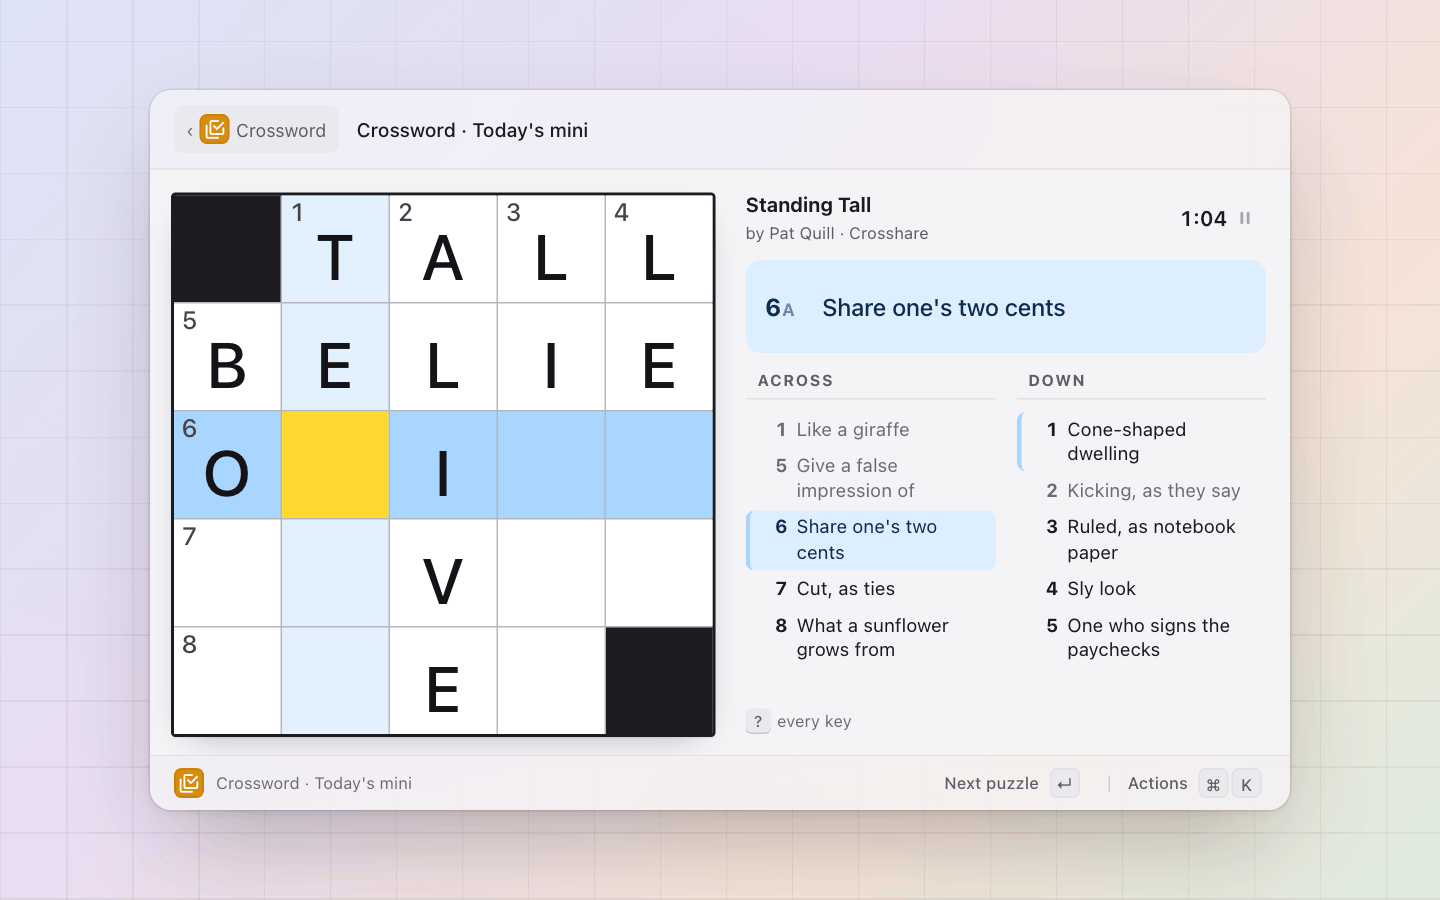
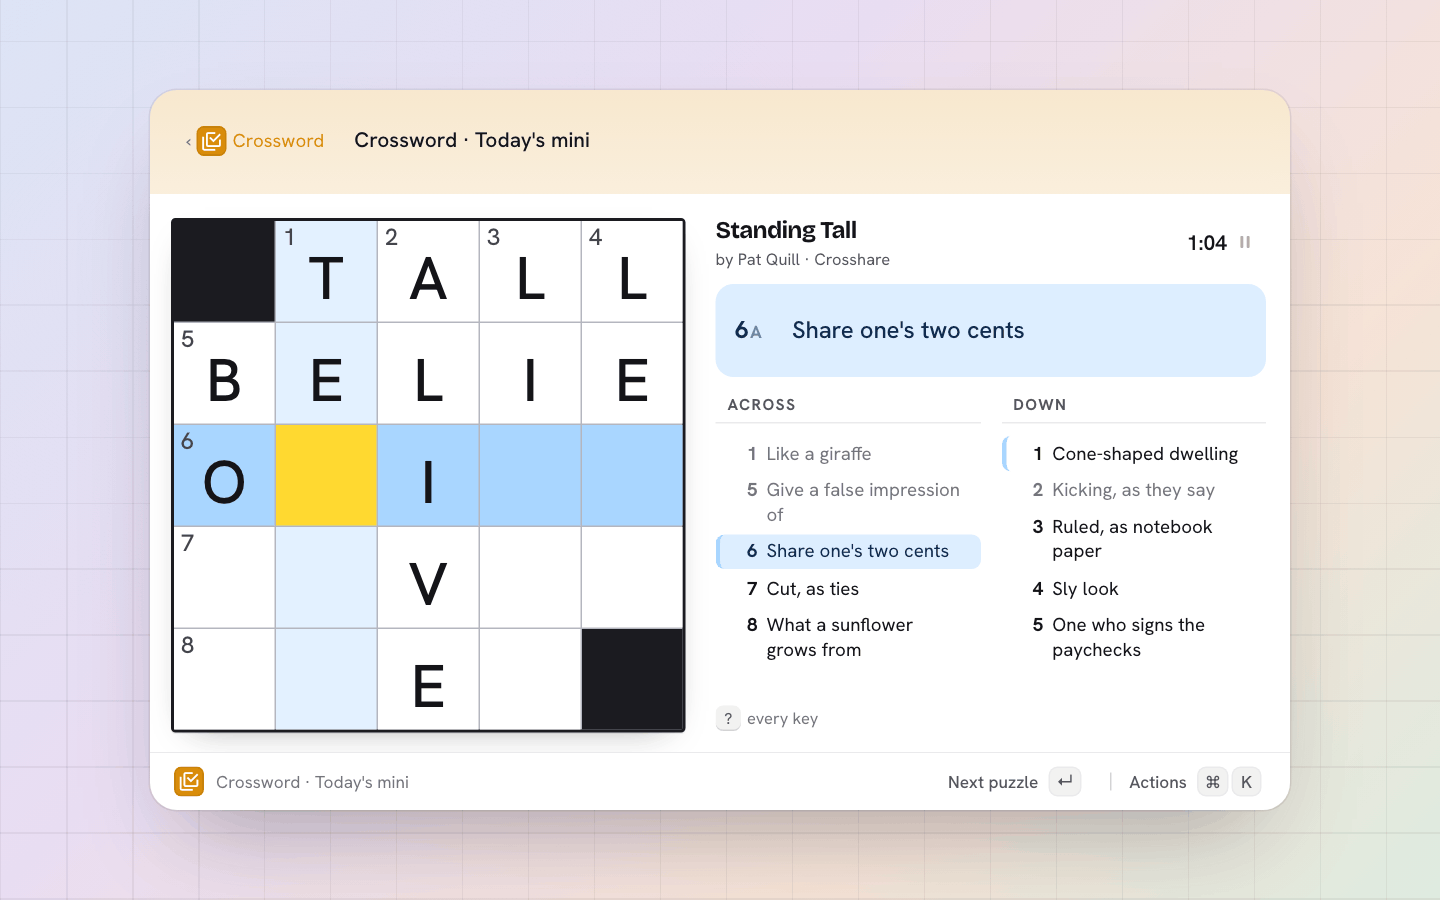
crossword: the solve time, the puzzle's name, the stats and the peeked puzzle in the display type; radii from the panel's tokens; screenshots in Ink

diff --git a/crossword/surface/style.css b/crossword/surface/style.css
@@ -29,6 +29,10 @@
   --pie: var(--pal-accent, #4F46D6);
   --ease: cubic-bezier(0.2, 0.8, 0.2, 1);
   --spring: cubic-bezier(0.3, 1.5, 0.5, 1);
+  /* The panel's display type (Ink's headline face; pal's own UI face otherwise): the solve time, the puzzle's name and the stats lead in it. */
+  --display: var(--pal-font-hero, var(--pal-font-query, var(--pal-font-ui, system-ui, sans-serif)));
+  --display-weight: var(--pal-weight-hero, 700);
+  --display-track: var(--pal-tracking-query, -0.02em);
   color-scheme: light;
 }
 :root[data-theme="dark"] {
@@ -193,7 +197,7 @@ body.solved .o { cursor: default; }
 }
 #cover > div { display: flex; flex-direction: column; align-items: center; gap: 6px; color: var(--pal-fg-muted, #5c5c66); }
 #cover svg { width: 34px; height: 34px; fill: currentColor; stroke: none; opacity: 0.55; }
-#cover b { font-size: 17px; font-weight: 600; color: var(--pal-fg, #1A1A1F); }
+#cover b { font-family: var(--display); font-size: var(--pal-text-xl, 18px); font-weight: var(--display-weight); letter-spacing: var(--display-track); color: var(--pal-fg, #1A1A1F); }
 #cover span { font-size: 11.5px; }
 body.paused #cover { opacity: 1; pointer-events: auto; transform: none; cursor: pointer; }
 body.paused #clue > *, body.paused #lists { filter: blur(5px); opacity: 0.4; }
@@ -205,7 +209,7 @@ body.top #who { margin-top: 8px; }
 body.top.nolists #who { margin-top: 0; flex-direction: row; align-items: baseline; justify-content: flex-start; gap: 8px; }
 body.top.nolists #credit { align-self: baseline; }
 body.top.nolists #who { max-width: 55%; }
-#ptitle { font-size: 13.5px; font-weight: 650; letter-spacing: -0.01em; white-space: nowrap; overflow: hidden; text-overflow: ellipsis; }
+#ptitle { font-family: var(--display); font-size: var(--pal-text-lg, 15px); font-weight: var(--display-weight); letter-spacing: var(--display-track); white-space: nowrap; overflow: hidden; text-overflow: ellipsis; }
 #credit {
   align-self: flex-start; max-width: 100%; display: inline-flex; align-items: center; gap: 3px;
   font-size: 11px; color: var(--pal-fg-muted, #5c5c66); white-space: nowrap; overflow: hidden; text-overflow: ellipsis;
@@ -233,7 +237,7 @@ body.noclock #clock { display: none; }
   --clue-size: clamp(15px, 2.25vw, 22px);
   grid-area: clue; margin-top: 10px; height: calc(var(--clue-size) * 2.56 + 18px); min-width: 0;
   display: flex; align-items: center; gap: 8px; padding: 9px 14px 9px 13px;
-  background: var(--clue); color: var(--clue-ink); border-radius: 10px;
+  background: var(--clue); color: var(--clue-ink); border-radius: var(--pal-radius-tile, 10px);
 }
 #clue-n {
   flex: none; min-width: 1.85em; font: 700 calc(var(--clue-size) * 0.95) / 1 var(--pal-font-ui, system-ui, sans-serif);
@@ -256,7 +260,7 @@ body.top #lists { margin-top: 6px; }
 /* No room beside a wide grid: ⌘L lays every clue over it. */
 body.nolists #lists { display: none; }
 body.nolists.clues-open #lists {
-  display: grid; grid-area: board; z-index: 6; margin: 10px 0 0; padding: 12px 14px 4px; border-radius: 12px;
+  display: grid; grid-area: board; z-index: 6; margin: 10px 0 0; padding: 12px 14px 4px; border-radius: var(--pal-radius-popover, 12px);
   background: var(--pal-bg-elevated, #fff); box-shadow: var(--pal-shadow-popover, 0 10px 40px rgba(0,0,0,.2)); grid-template-columns: 1fr 1fr; grid-template-rows: none;
   animation: pop-card 200ms var(--ease);
 }
@@ -295,7 +299,7 @@ body.top.nolists #hint { justify-content: flex-end; grid-column: 1 / -1; justify
 body.top #hint span.long, body.onecol #hint span.long { display: none; }
 #nearly {
   grid-area: hint; align-self: end; z-index: 2; height: 28px; display: flex; align-items: center; gap: 6px; padding: 0 12px; white-space: nowrap; overflow: hidden;
-  border-radius: 8px; background: var(--gold-soft); color: var(--pal-fg, #1A1A1F); font-size: 12px;
+  border-radius: var(--pal-radius-control, 8px); background: var(--gold-soft); color: var(--pal-fg, #1A1A1F); font-size: 12px;
   box-shadow: inset 0 0 0 1px color-mix(in srgb, var(--gold) 40%, transparent);
 }
 #nearly b { font-weight: 650; }
@@ -323,7 +327,7 @@ body.finished #clue, body.finished #lists { opacity: 0; transform: translateY(6p
 #done.in #done-mark svg { animation: tick 420ms var(--ease) 260ms both; }
 @keyframes tick { from { stroke-dashoffset: 24; } }
 #done-what { font-size: 13px; font-weight: 600; color: var(--pal-fg-muted, #5c5c66); }
-#done-time { font: 700 44px / 1.05 var(--pal-font-ui, system-ui, sans-serif); letter-spacing: -0.03em; font-variant-numeric: tabular-nums; }
+#done-time { font: var(--display-weight) 44px / 1.05 var(--display); letter-spacing: -0.03em; font-variant-numeric: tabular-nums; }
 #done-tags { display: flex; flex-wrap: wrap; gap: 6px; min-height: 22px; margin-top: 2px; }
 #done-tags span {
   display: inline-flex; align-items: center; height: 22px; padding: 0 9px; border-radius: 11px;
@@ -353,7 +357,7 @@ body.top.nolists #done-time { font-size: 24px; }
 body.top.nolists #done-tags { flex-wrap: nowrap; overflow: hidden; margin: 0; min-width: 0; flex: 1; }
 body.top.nolists #done-go { margin: 0; flex: none; }
 #done-go button, .go button, #peek button {
-  display: inline-flex; align-items: center; gap: 7px; height: 30px; padding: 0 11px; border-radius: 8px;
+  display: inline-flex; align-items: center; gap: 7px; height: 30px; padding: 0 11px; border-radius: var(--pal-radius-control, 8px);
   background: var(--chip); font-size: 12.5px; font-weight: 550;
   transition: background 120ms, transform 120ms, filter 120ms;
 }
@@ -399,7 +403,7 @@ body.top.nolists #done-go { margin: 0; flex: none; }
 /* ======================================================================== browse */
 #browse, #stats { display: flex; flex-direction: column; padding: 12px 16px 10px; }
 .bar { flex: none; height: 32px; display: flex; align-items: center; gap: 12px; }
-.tabs { display: flex; min-width: 0; padding: 2px; gap: 2px; background: var(--pal-bg-sunken, #EAEAEE); border-radius: 8px; }
+.tabs { display: flex; min-width: 0; padding: 2px; gap: 2px; background: var(--pal-bg-sunken, #EAEAEE); border-radius: var(--pal-radius-control, 8px); }
 .tabs button { height: 26px; padding: 0 11px; white-space: nowrap; border-radius: 6px; font-size: 12px; font-weight: 550; color: var(--pal-fg-muted, #5c5c66); transition: background 140ms, color 140ms, box-shadow 140ms; }
 .tabs button:hover { color: var(--pal-fg, #1A1A1F); }
 .tabs button.on { background: var(--pal-bg-elevated, #fff); color: var(--pal-fg, #1A1A1F); box-shadow: 0 0 0 1px var(--pal-line, #e2e2e8), 0 1px 2px rgba(0,0,0,.06); }
@@ -449,14 +453,14 @@ body.top.nolists #done-go { margin: 0; flex: none; }
 .day.skipped span { color: var(--pal-fg-faint, #8e8e98); text-decoration: line-through; }
 
 #peek {
-  flex: 1; min-width: 0; align-self: stretch; margin-bottom: 4px; padding: 16px 18px; border-radius: 12px;
+  flex: 1; min-width: 0; align-self: stretch; margin-bottom: 4px; padding: 16px 18px; border-radius: var(--pal-radius-popover, 12px);
   background: var(--pal-bg-elevated, #fff); box-shadow: 0 0 0 1px var(--pal-line, #e2e2e8);
   display: flex; flex-direction: column; align-items: flex-start; justify-content: center; gap: 3px;
 }
 #peek.swap > * { animation: swap 200ms var(--ease) both; }
 #peek .date { font-size: 11px; font-weight: 600; color: var(--pal-fg-muted, #5c5c66); display: flex; gap: 6px; align-items: center; letter-spacing: 0.01em; }
 #peek .date em { font-style: normal; font-size: 10px; font-weight: 700; text-transform: uppercase; letter-spacing: 0.06em; color: var(--pal-accent, #4F46D6); }
-#peek .ttl { margin-top: 6px; font-size: 19px; font-weight: 650; line-height: 1.2; letter-spacing: -0.015em; display: -webkit-box; -webkit-line-clamp: 2; -webkit-box-orient: vertical; overflow: hidden; }
+#peek .ttl { margin-top: 6px; font-family: var(--display); font-size: 20px; font-weight: var(--display-weight); line-height: 1.2; letter-spacing: var(--display-track); display: -webkit-box; -webkit-line-clamp: 2; -webkit-box-orient: vertical; overflow: hidden; }
 #peek .by { font-size: 12px; color: var(--pal-fg-muted, #5c5c66); }
 #peek .facts { margin-top: 10px; display: flex; flex-direction: column; gap: 6px; font-size: 12px; }
 #peek .size { align-self: flex-start; padding: 2px 7px; border-radius: 5px; background: var(--chip); font-size: 11px; font-weight: 600; font-variant-numeric: tabular-nums; color: var(--pal-fg-muted, #5c5c66); }
@@ -471,7 +475,7 @@ body.top.nolists #done-go { margin: 0; flex: none; }
 #rows { list-style: none; margin: 0; padding: 0; height: 100%; overflow-y: auto; scrollbar-width: none; }
 #rows li {
   display: grid; grid-template-columns: 16px minmax(0, 1fr) minmax(0, 150px) 38px 52px; gap: 10px; align-items: center;
-  height: 31px; padding: 0 10px; border-radius: 7px; cursor: pointer; font-size: 12.5px; transition: background 120ms;
+  height: 31px; padding: 0 10px; border-radius: var(--pal-radius-row, 7px); cursor: pointer; font-size: 12.5px; transition: background 120ms;
 }
 #rows li:hover { background: var(--pal-bg-sunken, #EAEAEE); }
 #rows li.cur { background: var(--clue); color: var(--clue-ink); }
@@ -498,9 +502,9 @@ body.top.nolists #done-go { margin: 0; flex: none; }
 /* ======================================================================== stats */
 #stats-body { flex: 1; min-height: 0; display: grid; grid-template-rows: auto auto minmax(0, 1fr); gap: 12px; padding-top: 10px; }
 #tiles { display: grid; grid-template-columns: repeat(5, minmax(0, 1fr)); gap: 8px; }
-.tile { padding: 9px 11px 8px; border-radius: 10px; background: var(--pal-bg-elevated, #fff); box-shadow: 0 0 0 1px var(--pal-line, #e2e2e8); display: flex; flex-direction: column; gap: 1px; min-width: 0; }
+.tile { padding: 9px 11px 8px; border-radius: var(--pal-radius-tile, 10px); background: var(--pal-bg-elevated, #fff); box-shadow: 0 0 0 1px var(--pal-line, #e2e2e8); display: flex; flex-direction: column; gap: 1px; min-width: 0; }
 .tile .lbl { font-size: 10px; font-weight: 700; letter-spacing: 0.07em; text-transform: uppercase; color: var(--pal-fg-faint, #8e8e98); white-space: nowrap; }
-.tile b { font-size: 21px; font-weight: 700; letter-spacing: -0.02em; font-variant-numeric: tabular-nums; line-height: 1.2; }
+.tile b { font-family: var(--display); font-size: 22px; font-weight: var(--display-weight); letter-spacing: var(--display-track); font-variant-numeric: tabular-nums; line-height: 1.2; }
 .tile b small { font-size: 11px; font-weight: 600; margin-left: 3px; color: var(--pal-fg-muted, #5c5c66); letter-spacing: 0; }
 .tile .sub { font-size: 10.5px; color: var(--pal-fg-muted, #5c5c66); white-space: nowrap; overflow: hidden; text-overflow: ellipsis; min-height: 14px; }
 .tile.hot b { color: var(--gold); }
@@ -542,12 +546,12 @@ body.top.nolists #done-go { margin: 0; flex: none; }
 #offline .glyph { width: 34px; height: 34px; color: var(--pal-fg-faint, #8e8e98); margin-bottom: 4px; }
 #offline .glyph .cut { stroke: var(--wrong); }
 #offline.none .glyph { display: none; }
-#offline b { font-size: 15px; font-weight: 650; }
+#offline b { font-family: var(--display); font-size: var(--pal-text-xl, 18px); font-weight: var(--display-weight); letter-spacing: var(--display-track); }
 #offline p { margin: 0; color: var(--pal-fg-muted, #5c5c66); }
 #offline-list { width: 100%; margin-top: 12px; display: flex; flex-direction: column; gap: 2px; }
 #offline-list:empty { display: none; }
 #offline-list .lbl { font-size: 11px; color: var(--pal-fg-faint, #8e8e98); text-align: left; margin: 0 0 4px 10px; }
-#offline-list button { display: grid; grid-template-columns: 14px minmax(0, 1fr) auto; gap: 10px; align-items: center; height: 30px; padding: 0 10px; border-radius: 7px; text-align: left; }
+#offline-list button { display: grid; grid-template-columns: 14px minmax(0, 1fr) auto; gap: 10px; align-items: center; height: 30px; padding: 0 10px; border-radius: var(--pal-radius-row, 7px); text-align: left; }
 #offline-list button:hover { background: var(--pal-bg-sunken, #EAEAEE); }
 #offline-list button.hl { background: var(--clue); color: var(--clue-ink); }
 #offline-list .ttl { white-space: nowrap; overflow: hidden; text-overflow: ellipsis; font-weight: 550; }
@@ -591,7 +595,7 @@ body.top.nolists #done-go { margin: 0; flex: none; }
 #photo.in { animation: fade 160ms ease; }
 #photo.in img { animation: pop-card 240ms var(--ease); }
 #note {
-  position: fixed; left: 50%; bottom: 14px; z-index: 11; transform: translateX(-50%); padding: 7px 14px; border-radius: 9px; white-space: nowrap;
+  position: fixed; left: 50%; bottom: 14px; z-index: 11; transform: translateX(-50%); padding: 7px 14px; border-radius: var(--pal-radius-hud, 9px); white-space: nowrap;
   background: var(--pal-bg-elevated, #fff); color: var(--pal-fg, #1A1A1F); box-shadow: var(--pal-shadow-popover, 0 10px 40px rgba(0,0,0,.2)); font-size: 12px; font-weight: 550;
 }
 #note.in { animation: note 2600ms var(--ease) forwards; }
